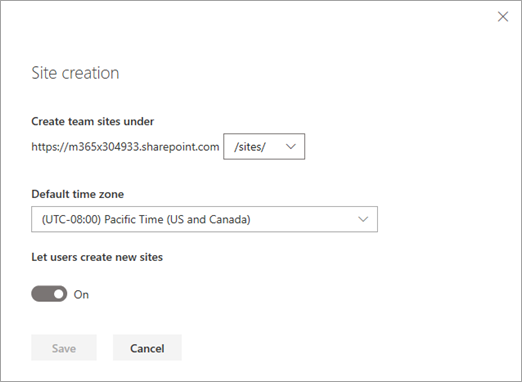
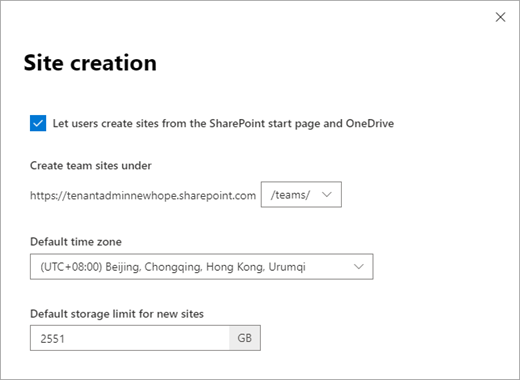
Updates for wave 4

diff --git a/SharePoint/SharePointOnline/get-started-new-admin-center.md b/SharePoint/SharePointOnline/get-started-new-admin-center.md
@@ -35,7 +35,7 @@ The Home page of the new SharePoint admin center gives you an overview of ShareP
 Help us improve the new SharePoint admin center! Tell us what you like or don't like, send a suggestion, or file a bug. To send us feedback, click **Feedback** in the lower-right corner. 
 
 > [!TIP]
-> To set the new SharePoint admin center as the default experience, select **Settings** in the left pane, select **Default admin experience**, turn on **Open the new SharePoint admin center by default**, and then select **Save**.
+> To set the new SharePoint admin center as the default experience, select **Settings** in the left pane, select **Default admin experience**, select **Open the new SharePoint admin center by default**, and then select **Save**.
 
 ## View reports
 
@@ -65,6 +65,15 @@ In the Service health section of the home page, you can see whether the SharePoi
   
 ![The Service health card on the Home page](media/0336aab6-aecb-494c-9cd2-f279f452cc79.PNG)
   
+## Customize the navigation pane
+
+1. At the bottom of the navigation pane, select **Customize navigation**.
+2. Select the items you want to appear in the navigation pane, and then select **Save**.
+
+> [!TIP]
+> To minimize the navigation pane, select the **Collapse navigation menu** icon at the top of the navigation pane.
+
+
 ## Where to find things in the new SharePoint admin center
 
 If you're used to working in the classic SharePoint admin center, use the following table to learn where you can find features and tasks in the new admin center.
@@ -77,18 +86,13 @@ If you're used to working in the classic SharePoint admin center, use the follow
 |Select site collections on the site collections page and select **Delete**     |    On the Active sites page, select sites and then select Delete      |         |
 |Select a site collection on the site collections page and select **Properties**    |   On the Active sites page, select the site's name to open the details pane |    In the new SharePoint admin center, you can edit site details.     |
 |Select a site collection on the site collections page and select **Owners** > **Manage Administrators**     |    On the Active sites page, select a site, and then select Owners      |    The new experience also lets you view and edit Office 365 Group owners.      |
-|Select a site collection on the site collections page and select **Sharing**     |     On the Active sites page, select a site, and then select Sharing (or select multiple sites, and then select Bulk edit > Sharing)    |    Some site-level sharing settings are still coming to the new SharePoint admin center.     |
+|Select a site collection on the site collections page and select **Sharing**     |     On the Active sites page, select a site, and then select Sharing (or select multiple sites, and then select Bulk edit > Sharing)    |        |
 |On the site collections page, select **Buy Storage**     |  [Buy a file storage add-on from the Microsoft 365 admin center](/office365/admin/subscriptions-and-billing/buy-or-edit-an-add-on?view=o365-worldwide)       |         |
 |On the site collections page, select **Recycle Bin**    |    Deleted sites page    |         |
 |   Sharing page |       Sharing page  |        The new page includes the most common settings, and others are coming soon. |
 |Settings page     |    Settings page     |      The new page includes the most common settings, and others are coming soon. At the bottom of the new Settings page, you can select **classic settings page** to access all the classic settings.    |
 |Access control page     |    Access control page     |     The new SharePoint admin center contains all the classic settings and more.    |
-|Term store, User profiles, Search, Apps |   Classic features page      |         |
-|BCS, Secure store, Records management, InfoPath, Configure hybrid (hybrid picker)  |  Classic features page > More classic features       |         |
-
-
-
-
+|Term store, User profiles, Search, Apps, BCS, Secure store, Records management, InfoPath, Configure hybrid (hybrid picker) |   More features page      |         |
 
 
 ## See also

diff --git a/SharePoint/SharePointOnline/manage-site-creation.md b/SharePoint/SharePointOnline/manage-site-creation.md
@@ -42,9 +42,14 @@ As a global or SharePoint admin in Office 365, you can let your users create and
 
     ![Site creation settings in the new SharePoint admin center](media/site-creation.png)
 
-5. Select to create Office 365 group-connected team sites under /sites or /teams, select the default time zone and storage limit for new sites, and turn **Let users create new sites** On or Off. 
+5. Select **Let users create sites from the SharePoint start page and OneDrive** if you want users to be able to create sites from these services.
 
-6. Select **Save**.
+> [!NOTE]
+> Even if you clear this check box, users may be able to create Office 365 groups from other places in Office 365. Each group always comes with a team site.[Learn how to manage who can create Office 365 groups](/office365/admin/create-groups/manage-creation-of-groups)
+
+6. Select to create Office 365 group-connected team sites under /sites or /teams, select the default time zone and storage limit for new sites.
+
+7. Select **Save**.
  
 ## Manage detailed site and subsite creation settings in the classic SharePoint admin center
 
@@ -56,15 +61,13 @@ As a global or SharePoint admin in Office 365, you can let your users create and
     
     ![Site creation settings](media/df009314-836b-4ed1-b656-c5c6dd07f1a5.png)
   
-    > [!NOTE]
-    > To allow only a select set of users to create groups, use the PowerShell cmdlet  `GroupCreationAllowedGroupId`. For info about this cmdlet, see [Azure Active Directory cmdlets for configuring group settings](https://azure.microsoft.com/documentation/articles/active-directory-accessmanagement-groups-settings-cmdlets/). 
-  
-  
   - **A new team site or communication site**: Select to create the group-connected team sites under (/sites or /teams) and whether a secondary contact is required. To let users create sites from a custom form you've created, enter its URL in the **Use the form at this URL** box. When users select which type of site they want to create, they'll be able to access the form by clicking "See other options." 
     
-  - **A classic site**: Use this option to allow users to create only default classic sites or sites from your custom form. Specify where sites are created, and whether a site classification or secondary contact is required. To specify a custom form, enter the URL for the custom form in the **Use the form at this URL** box. 
+  - **A classic team subsite**: Use this option to allow users to create only default classic sites or sites from your custom form. Specify where sites are created, and whether a site classification or secondary contact is required. To specify a custom form, enter the URL for the custom form in the **Use the form at this URL** box. 
     
     > [!NOTE]
     > For info about classifying Office 365 groups, see [Manage Office 365 Groups with PowerShell](/office365/enterprise/manage-office-365-groups-with-powershell). 
   
-4. Select **OK**.
+4. Under **Subsite creation**, specify whether users can select **New** > **Subsite** on the Site contents page to create a new subsite. 
+
+5. Select **OK**.

diff --git a/SharePoint/SharePointOnline/what-s-new-in-admin-center.md b/SharePoint/SharePointOnline/what-s-new-in-admin-center.md
@@ -24,17 +24,24 @@ We're continuously adding new features to the new SharePoint admin center and fi
 > [!NOTE]
 > The new SharePoint admin center is supported in Microsoft Edge, Internet Explorer, Chrome, Firefox, and Safari. <br>Some functionality is introduced gradually to organizations that have opted in to the [Targeted release option in Office 365](/office365/admin/manage/release-options-in-office-365). This means that you may not yet see some features described in this article. 
   
-## November 2019
+## December 2019
 
 - The navigation pane can be customized to show or hide items. 
 - On the Active sites page, you can select and replace the root site.
 - On the Active sites page, you can point to a name in the Primary admin column or on the Permissions tab of the details panel and see more info about the person. 
-- On the Active sites page, you can change site addresses.
 - On the Active sites page, the details panel that appears when you select a site has been redesigned to divide the information among multiple tabs. 
 - When you select a site and select **Sharing**, you can change the default sharing link type and default link permissions for the site. 
 - A new experience that lets you manage all site admins in one panel, view site members and visitors, and add site admins to sites that belong to Office 365 groups. 
 - The Settings page has been redesigned so you can see the value for settings on the main page.
 - Classic features can now be found under **More features**.
+
+## November 2019
+
+- If you're using the new sensitivity labels, you can view and edit them from the Active sites page.
+
+## October 2019
+
+- From the Active sites page, you can change site addresses.
 
 ## June 2019
 

diff --git a/SharePoint/SharePointOnline/toc.md b/SharePoint/SharePointOnline/toc.md
@@ -17,7 +17,7 @@
 ### [Root site](modern-root-site.md)
 ### [Lists and libraries](change-default-list-and-library-experience.md)
 ## [New admin center]()
-### [Home page](get-started-new-admin-center.md)
+### [Overview](get-started-new-admin-center.md)
 ### [What's new in admin center](what-s-new-in-admin-center.md)
 ### [Manage sites in new admin center](manage-sites-in-new-admin-center.md)
 ## [Hub sites]()
